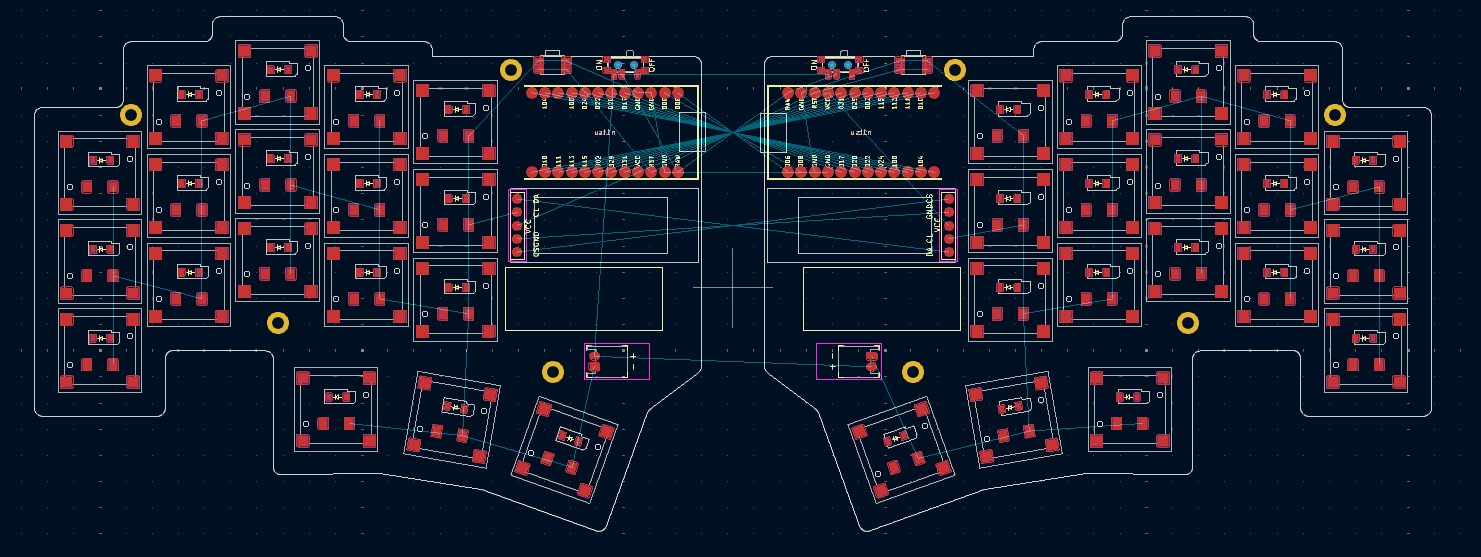
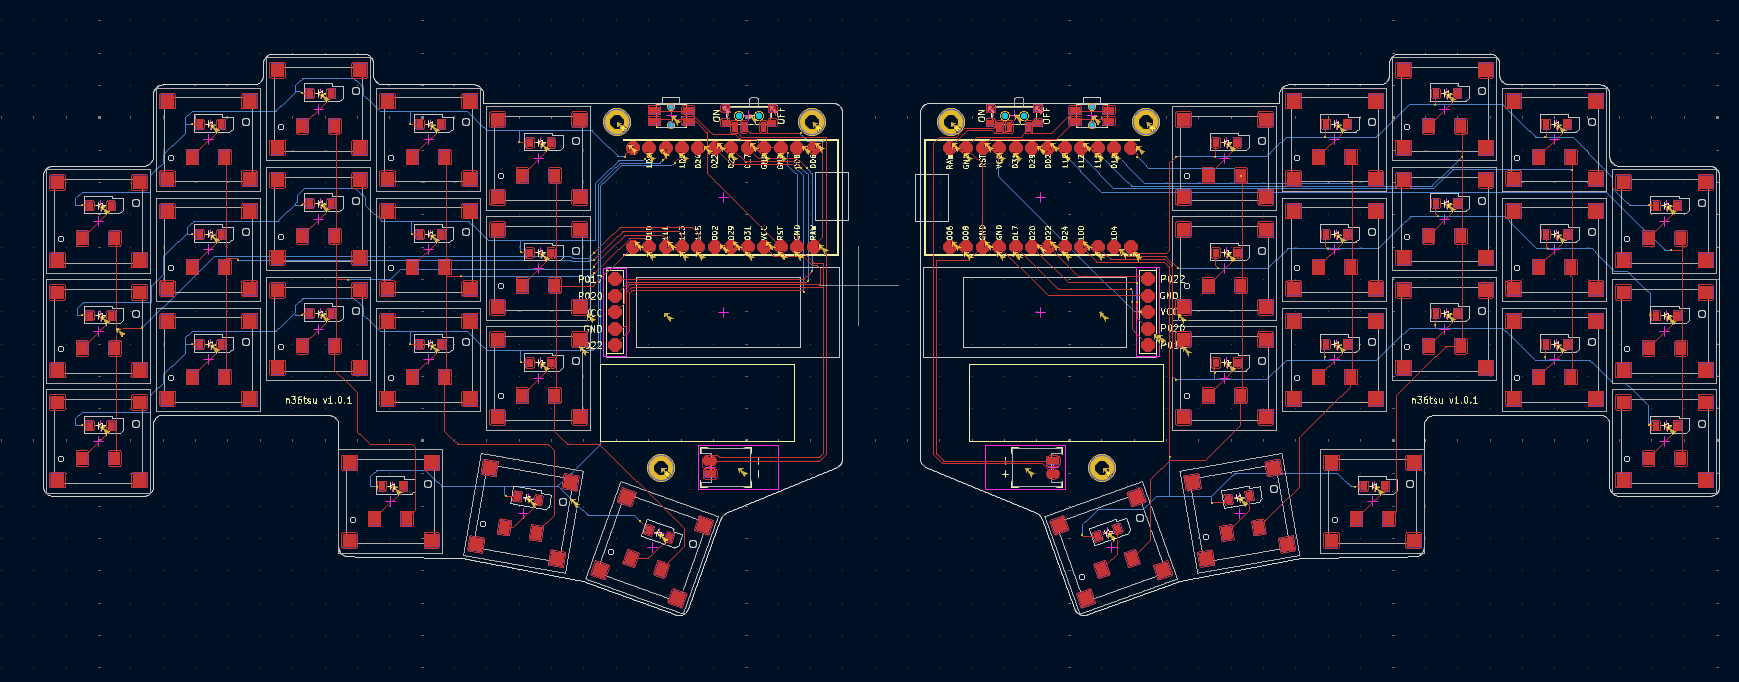
Update PCB image

Changed region(s): [[0.0, 0.061, 0.9939, 0.9156]]

diff --git a/README.md b/README.md
@@ -13,6 +13,5 @@
 - [x] verify every components orientation
 - [x] add text on PCB
 - [x] add case holes
-- [ ] add logo on PCB
-- [ ] wire components
+- [x] wire components
 - [ ] design 3D case
